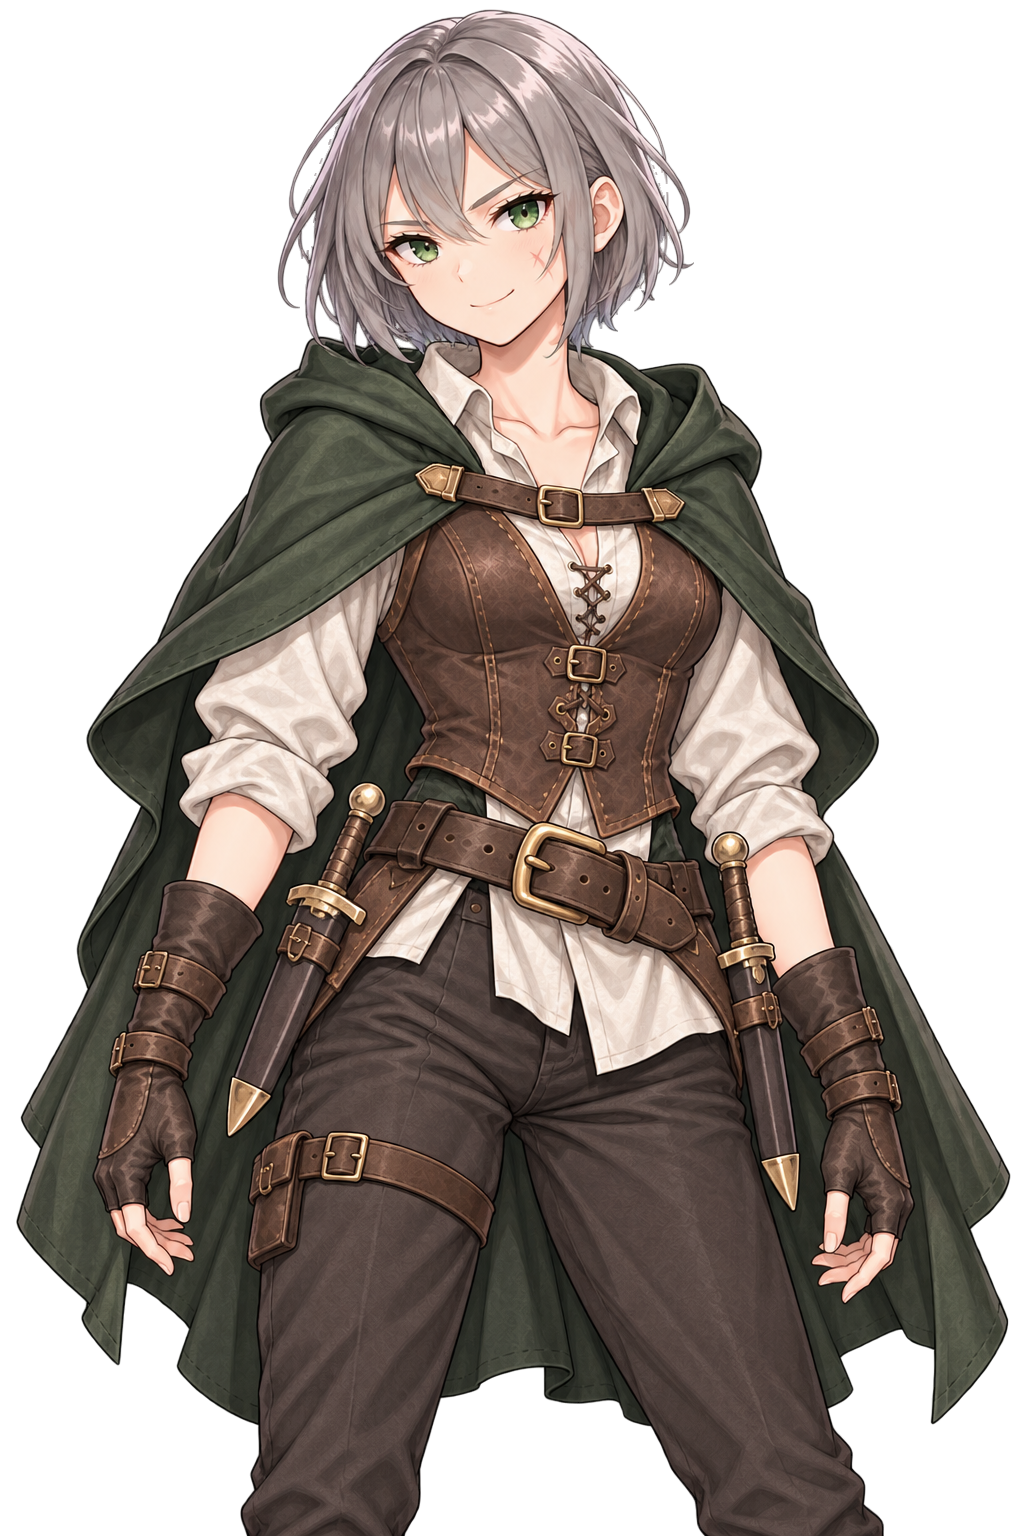
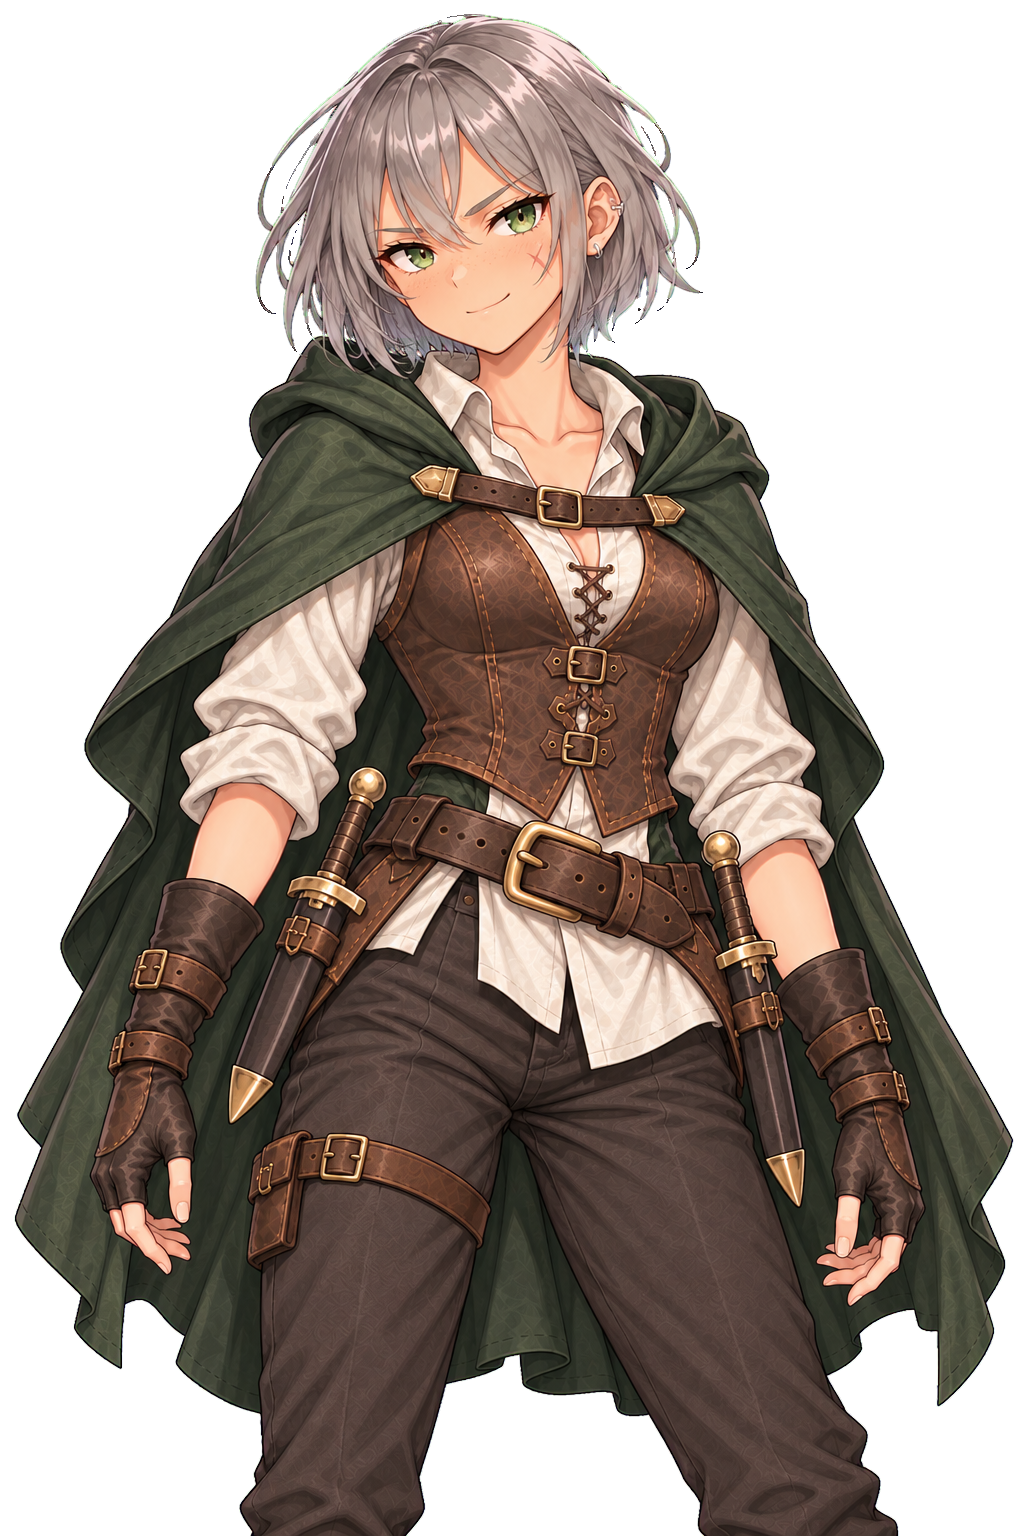
Art: S10R standing check (Cecile/Adelheid new faces); despill tool for magenta fringe + rule

diff --git a/tools/art/despill.py b/tools/art/despill.py
@@ -1,0 +1,33 @@
+"""마젠타 배경을 지운 뒤 가장자리에 남는 보라색 테두리(spill)를 없앤다.
+
+투명 경계 근처(반경 R 픽셀) 픽셀에서 min(R, B) - G 만큼의 마젠타 기운을 R, B 에서 뺀다.
+사용: python tools/art/despill.py 파일.png [파일.png ...]   (제자리에서 고친다)
+"""
+import sys
+
+import numpy as np
+from PIL import Image, ImageFilter
+
+R = 10
+
+
+def despill(path: str) -> int:
+    im = Image.open(path).convert("RGBA")
+    a = np.array(im).astype(np.int16)
+    alpha = a[..., 3]
+    # 투명 경계에서 R 픽셀 안쪽까지
+    hole = Image.fromarray((alpha < 250).astype(np.uint8) * 255)
+    near = np.array(hole.filter(ImageFilter.MaxFilter(R * 2 + 1))) > 0
+    r, g, b = a[..., 0], a[..., 1], a[..., 2]
+    spill = np.minimum(r, b) - g
+    mask = near & (alpha > 0) & (spill > 8)
+    s = np.where(mask, spill, 0)
+    a[..., 0] = r - s
+    a[..., 2] = b - s
+    Image.fromarray(np.clip(a, 0, 255).astype(np.uint8), "RGBA").save(path)
+    return int(mask.sum())
+
+
+if __name__ == "__main__":
+    for p in sys.argv[1:]:
+        print(p, "고친 픽셀", despill(p))

diff --git a/art/AGENTS.md b/art/AGENTS.md
@@ -82,6 +82,7 @@
 | 2026-10-16 · S16 | **전투 무대 소품(항아리, 통, 고목, 바리케이드, 탁자, 샹들리에, 덤불)은 Codex가 `prop` 형식으로 그린다.** Claude가 코드 도형으로 그린 소품이 배경과 너무 안 어울렸다. 배경과 같은 화풍·색·빛으로, 소품 하나만 마젠타 배경에 그려 투명 512×512로 만든다(SD 후처리와 같다). 부서진 모습은 게임이 연출하니 멀쩡한 모습 1장만. 전투 배경(bg_battle)에는 여전히 상호작용 소품을 그리지 않는다. **도적·잡몹의 장소에는 깃발·문장·십자가 같은 기사단·교회 표시를 넣지 않는다** (십자가는 교회 세력으로 읽힌다). **같은 지형의 전투 배경끼리는 밝기·답답함·구도로 확실히 다르게** (매복이 공터와 똑같이 나왔다). **참조 그림은 구도까지 따라간다**: 같은 건물의 다른 방은 대회관 그림을 참조로 붙이지 말고 재질만 글로 적는다(기록실이 대회관 구도로 나왔다). 지도는 `flat 2D parchment, NOT a 3D render` 를 꼭 쓴다 |
 | 2026-10-16 · S17 | **NPC는 설정 나이를 얼굴에 드러낸다.** 40대 마르타가 20대로, 30대 깐깐한 바실이 꽃미남 청년으로 나왔다. 화풍이 젊게 끌고 가므로 중년 이상은 주름·흰머리·얼굴형·체형을 프롬프트에 구체적으로 적고 `NOT a young girl / NOT a handsome young man` 을 붙인다. **마을·우호 NPC는 나이가 들어 보여도 어느 정도 미형으로 그린다** (2026-10-16 사용자 지시: 단정하고 호감 가는 얼굴, 중년의 멋). 못생기고 투박하게는 적(E·B)만. **NPC는 동료와 확실히 다른 개성으로**: 동료의 표준 미소녀·미소년 얼굴을 쓰지 않고 얼굴형(넓은·긴 얼굴), 알아볼 특징(주근깨, 점, 매부리코, 수염), 직업 소품과 자세를 넣는다 (개성 없다는 지적, 2026-10-16). 동료 그림은 크기·구도 참조로만 쓰고 얼굴을 따라 하지 않는다 |
 | 2026-10-16 · 동료 개성 | **동료 얼굴이 다 똑같이 생겼다**(세실·아델하이트가 리나와 같은 얼굴에 머리색만 다름). 예쁜 건 유지하되 characters.md '얼굴 개성 규칙'대로 동료마다 BODY 의 FACE 구절(눈매, 눈썹, 피부색, 얼굴형, 입 버릇, 점·주근깨, 키·체형)을 반드시 넣는다. 다른 동료 그림을 참조로 붙이면 얼굴이 따라오므로 '화풍·크기만 참조, 얼굴은 따르지 않는다'고 프롬프트에 적는다. 리나는 그대로 둔다 |
+| 2026-10-16 · S10R | **마젠타 배경을 지운 뒤 반드시 `python tools/art/despill.py <png>` 를 돌린다.** 어두운 머리카락 가장자리에 보라색 테두리가 남았다(아델하이트 스탠딩). 투명 PNG(스탠딩, SD, 소품) 모두 해당. 이건 기술 후처리라 검수가 아니다 |
 
 ## 저장소 관리
 

diff --git a/art/steps/S10R.md b/art/steps/S10R.md
@@ -45,3 +45,5 @@ S08 세실 세트 21장, S10 아델하이트 세트 18장, S18 cg_affection_C02 
 2026-10-16 · 2차 시작: manifest 에서 status=todo 인 C02·C03 행 38장(S08·S10 세트 + cg_affection_C02·C03). **중간 확인: C02_portrait_combat_neutral, C03_portrait_combat_neutral 2장만 먼저** 그리고 멈춘다.
 - 새 레퍼런스 시트(art/refs/C02_*, C03_*)가 얼굴 기준. 이전 스탠딩(art/raw/*_before_redesign.png)은 자세·구도·크기 참조로만 쓰고 얼굴은 따르지 않는다
 - FACE 구절을 프롬프트에 반드시 넣는다
+
+2026-10-16 · 2차 중간 확인 작업: C02_portrait_combat_neutral, C03_portrait_combat_neutral 각각 생성 1회 완료, manifest generated. 투명 PNG 1024×1536 및 전체 prompt.txt 저장. 자체 그림 검수·비교 시트·QA 스크립트 없이 기술 후처리만 수행. 이 2장에서 멈추고 사용자 검토 대기.
